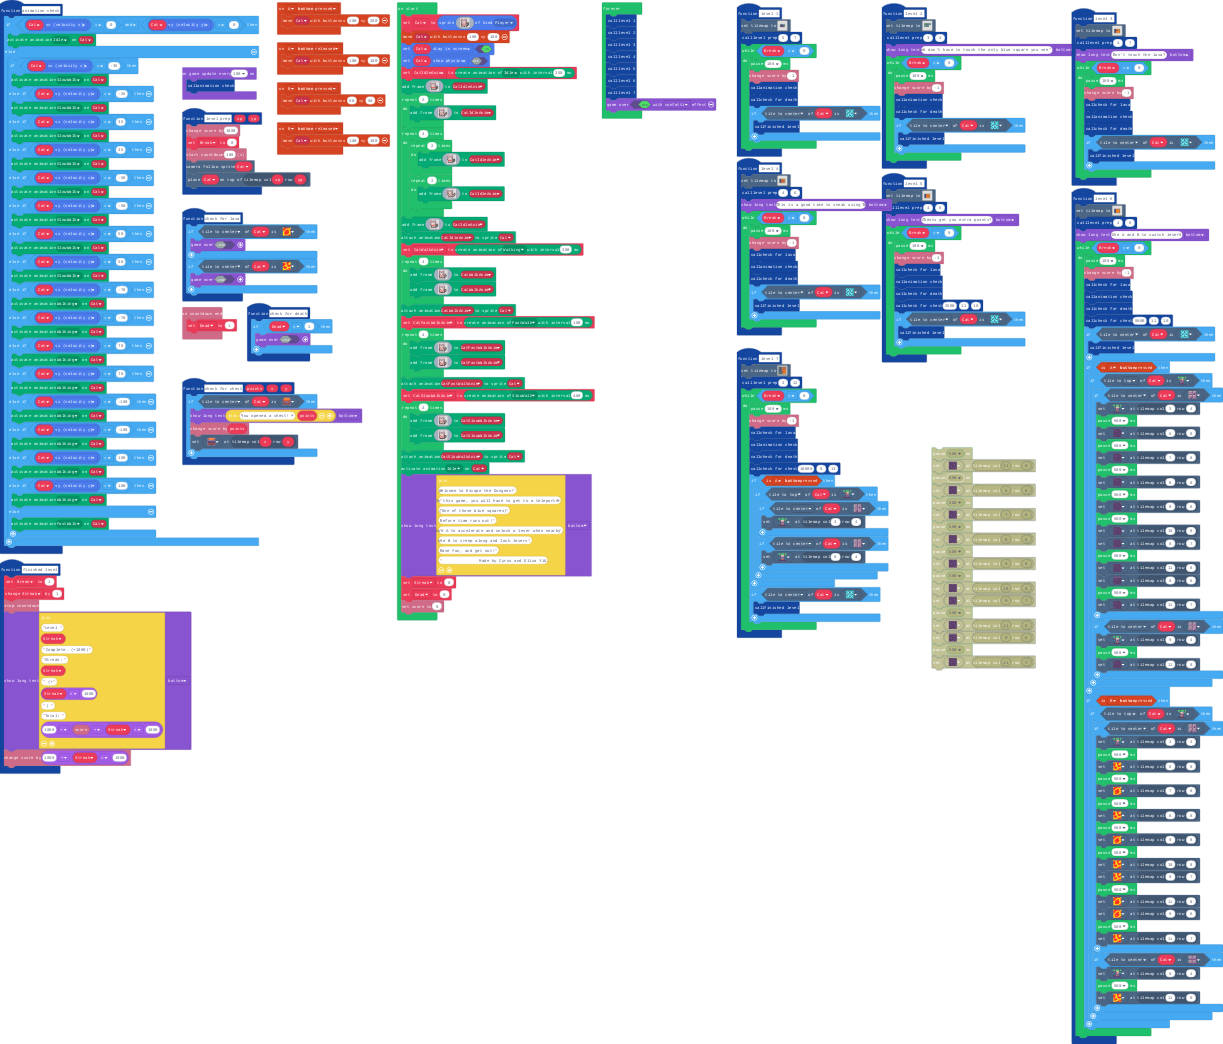
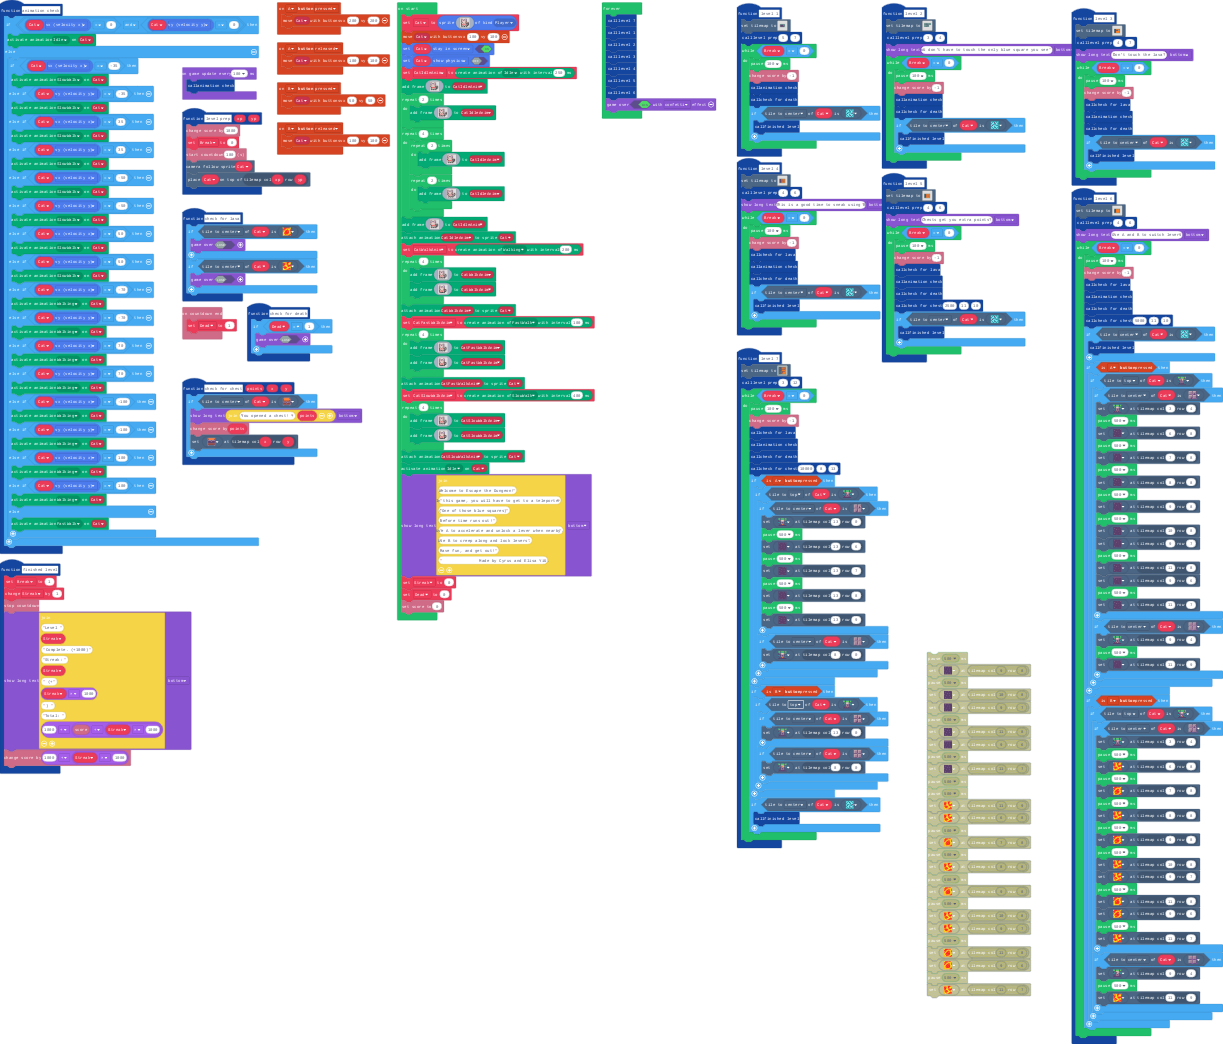
Update main.blocks, main.ts

Changed region(s): [[0.5904, 0.4291, 0.87, 0.9808]]

diff --git a/main.ts b/main.ts
@@ -68,10 +68,28 @@ function level_7 () {
         if (controller.A.isPressed()) {
             if (Cat.tileKindAt(TileDirection.Top, sprites.dungeon.greenSwitchUp)) {
                 if (Cat.tileKindAt(TileDirection.Center, sprites.dungeon.floorDark1)) {
-                    tiles.setTileAt(tiles.getTileLocation(3, 4), sprites.dungeon.greenSwitchDown)
+                    tiles.setTileAt(tiles.getTileLocation(13, 0), sprites.dungeon.greenSwitchDown)
+                    pause(500)
+                    tiles.setTileAt(tiles.getTileLocation(13, 6), sprites.dungeon.darkGroundCenter)
+                    pause(500)
+                    tiles.setTileAt(tiles.getTileLocation(13, 7), sprites.dungeon.darkGroundCenter)
+                    pause(500)
+                    tiles.setTileAt(tiles.getTileLocation(13, 8), sprites.dungeon.darkGroundCenter)
+                    pause(500)
+                    tiles.setTileAt(tiles.getTileLocation(13, 9), sprites.dungeon.darkGroundCenter)
                 }
                 if (Cat.tileKindAt(TileDirection.Center, sprites.dungeon.floorDark0)) {
-                    tiles.setTileAt(tiles.getTileLocation(9, 4), sprites.dungeon.greenSwitchDown)
+                    tiles.setTileAt(tiles.getTileLocation(8, 0), sprites.dungeon.greenSwitchDown)
+                }
+            }
+        }
+        if (controller.B.isPressed()) {
+            if (Cat.tileKindAt(TileDirection.Top, sprites.dungeon.greenSwitchDown)) {
+                if (Cat.tileKindAt(TileDirection.Center, sprites.dungeon.floorDark1)) {
+                    tiles.setTileAt(tiles.getTileLocation(13, 0), sprites.dungeon.greenSwitchUp)
+                }
+                if (Cat.tileKindAt(TileDirection.Center, sprites.dungeon.floorDark0)) {
+                    tiles.setTileAt(tiles.getTileLocation(8, 0), sprites.dungeon.greenSwitchUp)
                 }
             }
         }
@@ -670,12 +688,12 @@ game.onUpdateInterval(100, function () {
     animation_check()
 })
 forever(function () {
+    level_7()
     level_1()
     level_2()
     level_3()
     level_4()
     level_5()
     level_6()
-    level_7()
     game.over(true, effects.confetti)
 })
